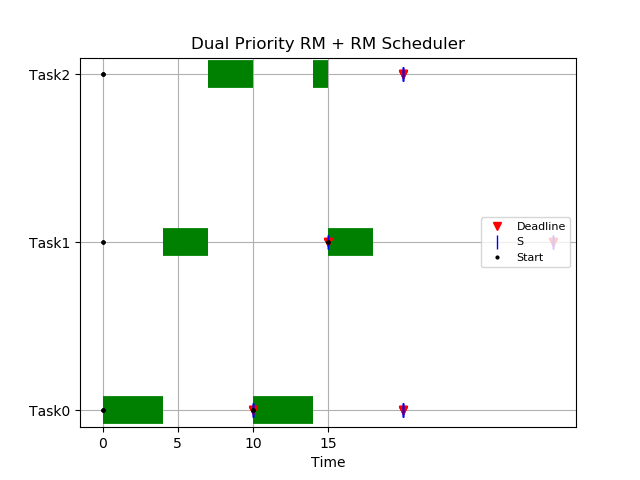
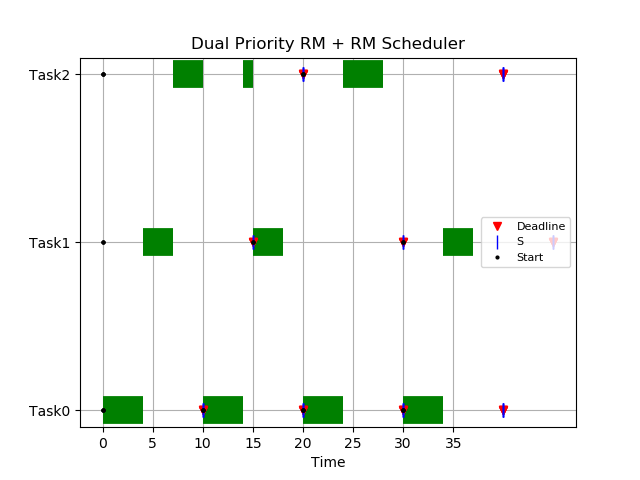
Fixing argument errors, removing unnecesary comments

diff --git a/simulate_dual.py b/simulate_dual.py
@@ -1,7 +1,9 @@
 from jobs import Job
 
+import random
 import matplotlib.pyplot as plt
 import numpy as np
+
 
 class SimulateDual:
 
@@ -12,7 +14,6 @@ class SimulateDual:
         self.show_data = show_data
 
     def plot_tasks(self, tasks_order, fx, tx, task_deadline, task_s, task_init):
-
         plt.hlines(tasks_order, fx, tx, linewidth=20, colors='green')
         plt.plot(task_deadline, tasks_order, 'ro', marker='v', label="Deadline")
         plt.plot(task_s, tasks_order, 'bo', marker='|', label="S", markersize=10.0)
@@ -22,25 +23,24 @@ class SimulateDual:
         plt.grid(True)
         plt.xlabel("Time")
         plt.xticks(np.arange(min(fx), max(tx) + 1, 5.0))
-        plt.savefig("scheduler_{}_tasks.png".format(len(self.tasks)))
+        rnd_file = "scheduler_{}.png".format(random.randint(1, 100000))
+        plt.savefig(rnd_file)
+        print("Saved in file: {}".format(rnd_file))
 
     def order_tasks(self):
         self.tasks.sort(key=lambda x: x.period)
-        # print("ordered tasks by period", self.tasks)
 
     def assign_priority_1(self):
         c = len(self.tasks) + 1
         for task in self.tasks:
             task.set_priority_1(c)
             c += 1
-        #print("Tasks assigned P1: {}".format(self.tasks))
 
     def assign_priority_2(self):
         c = 1
         for task in self.tasks:
             task.set_priority_2(c)
             c += 1
-        #print("Tasks assigned P2: {}".format(self.tasks))
 
     def get_utilization(self):
         u = 0
@@ -53,13 +53,11 @@ class SimulateDual:
         count = []
         for task in self.tasks:
             count.append(0)
-        #print(count)
         return count
 
     def create_jobs(self):
         jobs = []  # jobs
         cj = self.counter()
-        #hyperperiod = get_hyperperiod(self.tasks)
         for time in range(0, self.stop_point):
             for task in self.tasks:
                 if (time - task.offset) % task.period == 0 and time >= task.offset:
@@ -72,34 +70,29 @@ class SimulateDual:
                     s = start + task.s
                     jobs.append(Job(start, end, wcet, task_id, cj[task.task_id], priority_1, priority_2, s))
                     cj[task.task_id] += 1
-
-        #print(jobs)
         return jobs
 
     def print_intervals(self, task_id, job_id, start_time, end_time, is_idle):
         if self.show_data:
-            if is_idle == 1:
+            if is_idle:
                 message = "{}-{}: Idle slot".format(start_time, end_time)
             else:
                 message = "{}-{}: T{}J{}".format(start_time, end_time, task_id, job_id)
             print(message)
 
-
     def simulate(self):
-        #arrays used for plotting
+        # arrays used for plotting
         tasks_order = []
         task_deadline = []
         task_s = []
         task_init = []
-
         fx = []
         tx = []
         self.order_tasks()
         self.assign_priority_1()
         self.assign_priority_2()
         jobs = self.create_jobs()
-        #hyperperiod = get_hyperperiod(self.tasks)
-        #print("Schedule from: 0 to: {} ; {} tasks".format(self.stop_point, len(self.tasks)))
+        print("Schedule from: 0 to: {} ; {} tasks".format(self.stop_point, len(self.tasks)))
         last_task_id = -1
         last_job_id = -1
         start_job_time = 0
@@ -107,53 +100,45 @@ class SimulateDual:
             queue_jobs = []
             for job in jobs:
                 if time == job.s:
-                    #print("T:{}J:{} time:{} s:{} P1:{}--->P2:{}".format(job.task_id, job.job_id, time, job.s,
-                     #                                                   job.priority_1, job.priority_2))
                     job.set_priority_1(job.get_priority_2())
                 if job.start <= time:
                     queue_jobs.append(job)
             queue_jobs.sort(key=lambda x: x.priority_1)
-            #print("Printing queue", queue_jobs)
-
             if len(queue_jobs) > 0:
                 tasks_order.append("Task{}".format(queue_jobs[0].task_id))
-                #task_test_deadline.append(("Task{}".format(queue_jobs[0].task_id), queue_jobs[0].end))
                 task_deadline.append(queue_jobs[0].end)
                 task_s.append(queue_jobs[0].s)
                 task_init.append(queue_jobs[0].start)
                 fx.append(time)
-                tx.append(time+1)
-                if(last_task_id != -1 and last_job_id != -1 and (last_job_id != queue_jobs[0].get_job_id()
-                        or last_task_id != queue_jobs[0].task_id)):
-                    self.print_intervals(last_task_id,last_job_id, start_job_time, time, 0)
+                tx.append(time + 1)
+                # grouping jobs in time intervals
+                if (last_task_id != -1 and last_job_id != -1 and (last_job_id != queue_jobs[0].get_job_id()
+                                                                  or last_task_id != queue_jobs[0].task_id)):
+                    self.print_intervals(last_task_id, last_job_id, start_job_time, time, False)
                     start_job_time = time
                 last_task_id = queue_jobs[0].task_id
                 last_job_id = queue_jobs[0].get_job_id()
-                #print("{}-{}: T{}J{}".format(time, time + 1, queue_jobs[0].task_id, queue_jobs[0].get_job_id()))
                 job_usage = queue_jobs[0].job_usage()
                 if job_usage:
-                    #print("T{}J{} Finished".format(queue_jobs[0].task_id, queue_jobs[0].job_id))
                     jobs.remove(queue_jobs[0])
                 else:
                     for job in jobs:
                         if time + 1 == job.end:
                             if self.show_data:
                                 print("Missed deadline --- Stopping...")
-                            self.print_intervals(last_task_id, last_job_id, start_job_time, time + 1, 0)
+                            self.print_intervals(last_task_id, last_job_id, start_job_time, time + 1, False)
                             return False, job.get_task_id()
             else:
-                if ( last_task_id != -1) :
-                    self.print_intervals(last_task_id, last_job_id, start_job_time, time, 0)
+                if (last_task_id != -1):
+                    self.print_intervals(last_task_id, last_job_id, start_job_time, time, False)
                 last_task_id = -1
                 last_job_id = -1
                 start_job_time = time
-                self.print_intervals(0, 0, time, time + 1, 1)
-        if (last_task_id != -1):
-            self.print_intervals(last_task_id, last_job_id, start_job_time, time+1, 0)
+                self.print_intervals(0, 0, time, time + 1, True)
+        if last_task_id != -1:
+            self.print_intervals(last_task_id, last_job_id, start_job_time, time + 1, False)
         if self.show_data:
             print("END")
         if self.graphing:
             self.plot_tasks(tasks_order, fx, tx, task_deadline, task_s, task_init)
         return True, -1
-
-

diff --git a/project.py b/project.py
@@ -18,24 +18,19 @@ class Main:
     @staticmethod
     def fdms(file):
         tasks = TaskFileManager.read_file(file)
-        tasks_fdms = Fdms(tasks, show_data=True)
-        tasks_fdms.fdms()
+        if tasks:
+            tasks_fdms = Fdms(tasks, show_data=True)
+            tasks_fdms.fdms()
 
     @staticmethod
-    def simulate(file, stop_time):
+    def simulate(file, stop_time, is_graph):
         tasks = TaskFileManager.read_file(file)
-        fdms = Fdms(tasks, show_data=False)
-        fdms.fdms()
-        scheduler = SimulateDual(tasks, stop_time, graphing=False, show_data=True)
-        result, t_id = scheduler.simulate()
-
-    @staticmethod
-    def simulate_graph(file,stop_time):
-        tasks = TaskFileManager.read_file(file)
-        fdms = Fdms(tasks, show_data=False)
-        fdms.fdms()
-        scheduler = SimulateDual(tasks, stop_time, graphing=True, show_data=False)
-        scheduler.simulate()
+        if tasks:
+            tasks = TaskFileManager.read_file(file)
+            fdms = Fdms(tasks, show_data=False)
+            fdms.fdms()
+            scheduler = SimulateDual(tasks, stop_time, graphing=is_graph, show_data=not is_graph)
+            scheduler.simulate()
 
     @staticmethod
     def execute():
@@ -50,9 +45,15 @@ class Main:
             elif mode == 'fdms':
                 Main.fdms(sys.argv[2])
             elif mode == 'simulation':
-                Main.simulate(sys.argv[2], int(sys.argv[3]))
+                if len(sys.argv) > 3:
+                    Main.simulate(sys.argv[2], int(sys.argv[3]), False)
+                else:
+                    print("ERROR: Missing arguments")
             elif mode == 'simulation_graph':
-                Main.simulate_graph(sys.argv[2], int(sys.argv[3]))
+                if len(sys.argv) > 3:
+                    Main.simulate(sys.argv[2], int(sys.argv[3]), True)
+                else:
+                    print("ERROR: Missing arguments")
             else:
                 print("Unrecognized mode.")
         else:

diff --git a/fdms.py b/fdms.py
@@ -12,32 +12,15 @@ class Fdms:
             task.set_s(task.period)
 
     def print_s(self):
+        print("----S VALUES---")
         for task in self.tasks:
-            print("Task {}: {}".format(task.get_id(), task.get_s()))
+           print("Task {}: {}".format(task.get_id(), task.get_s()))
 
     def fdms(self):
         self.initiate_s()
-        #print("Tasks initialized with S: ", self.tasks)
-        #print(self.tasks)
         stop_point = get_hyperperiod(self.tasks)
-        #print("HP: {}".format(stop_point))
         tasks_simulated = SimulateDual(self.tasks, stop_point, False, show_data=self.show_data)
         result, t_id = tasks_simulated.simulate()
-        # while not result:
-        #     if self.tasks[t_id].get_s() == 0:
-        #         print("S = 0 for Task: {} UNFEASIBLE".format(t_id))
-        #         break
-        #     else:
-        #         print("Task {} missed deadline with S: {}.".format(t_id, self.tasks[t_id].get_s()))
-        #         for task in self.tasks:
-        #             if task.get_id() == t_id:
-        #                 #print("Task {} missed deadline with S: {}.".format(t_id, task.get_s()))
-        #                 task.set_s(task.get_s() - 1)
-        #                 result, t_id = tasks_simulated.simulate()
-        #         #self.tasks[t_id].set_s(self.tasks[t_id].get_s() - 1)
-        #
-        #         #result, t_id = tasks_simulated.simulate()
-        #
         while not result:
             for task in self.tasks:
                 if task.get_id() == t_id:
@@ -47,7 +30,6 @@ class Fdms:
                     else:
                         task.set_s(task.get_s() - 1)
                         result, t_id = tasks_simulated.simulate()
-
         if result:
             print("Tasks scheduled successfully.")
         self.print_s()

diff --git a/file_creator.py b/file_creator.py
@@ -16,13 +16,17 @@ class TaskFileManager:
     def read_file(file_name):
         tasks = []
         task_id = 0
-        file = open(file_name, "r")
-        for line in file:
-            task_values = line.split(";")
-            tasks.append(Task(int(task_values[0]), int(task_values[1]), int(task_values[2]), task_id))
-            task_id += 1
-        file.close()
-        return tasks
+        try:
+            file = open(file_name, "r")
+            for line in file:
+                task_values = line.split(";")
+                tasks.append(Task(int(task_values[0]), int(task_values[1]), int(task_values[2]), task_id))
+                task_id += 1
+            file.close()
+            return tasks
+        except:
+            print("ERROR: File not found")
+
 
 
 

diff --git a/jobs.py b/jobs.py
@@ -57,10 +57,6 @@ class Job:
             #print("usageF: ", self.usage)
             return False
 
-    # def __repr__(self):
-    #     return "T"+str(self.task_id) + "J" + str(self.job_id) + " - start: " + str(self.start) + " end: " + str(
-    #         self.end) + " wcet: " + str(self.wcet) + " priority_1: " + str(self.priority_1)
-
     def __repr__(self):
         return "T{}J{}(st:{} e:{} c:{} p1:{} p2:{} s:{})".format(self.task_id, self.job_id, self.start, self.end,
                                                                 self.wcet, self.priority_1, self.priority_2, self.s)
